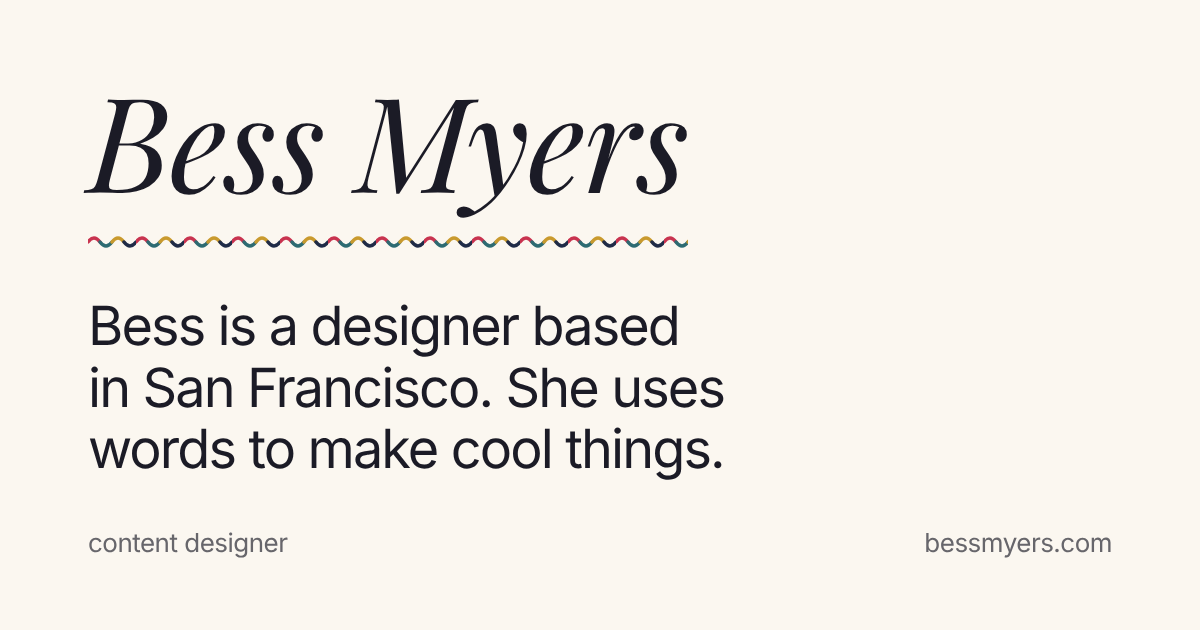
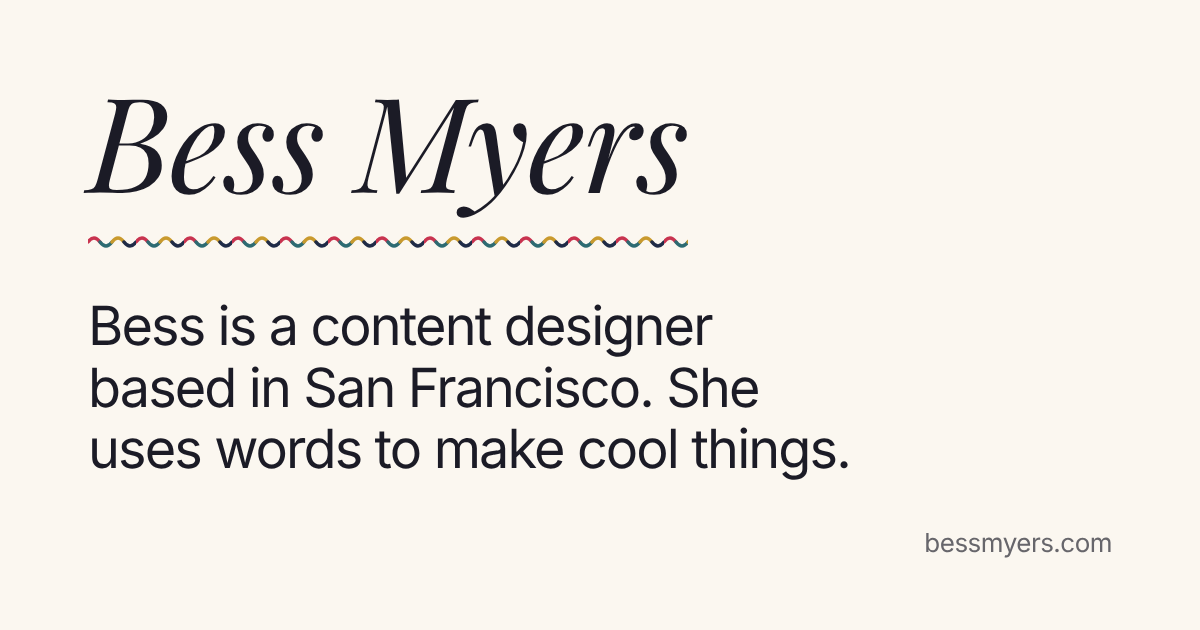
Hero: "Bess is a content designer based in San Francisco."
Updates the hero H1 (Chaos builds from it), the meta description, and
the og/twitter descriptions and image alt on every page. Re-renders the
social card with the new line and drops its now-redundant
"content designer" footer label.

Claude-Session: https://claude.ai/code/session_01EhM5K4LqiDdfiGdUqA5Go9

Changed region(s): [[0.0617, 0.4825, 0.7092, 0.7841], [0.0617, 0.8444, 0.2467, 0.8746]]

diff --git a/index.html b/index.html
@@ -8,18 +8,18 @@
   <meta property="og:type" content="website" />
   <meta property="og:site_name" content="Bess Myers" />
   <meta property="og:title" content="Bess Myers — content designer" />
-  <meta property="og:description" content="Bess Myers is a designer based in San Francisco. She uses words to make cool things." />
+  <meta property="og:description" content="Bess Myers is a content designer based in San Francisco. She uses words to make cool things." />
   <meta property="og:url" content="https://bessmyers.com/" />
   <meta property="og:image" content="https://bessmyers.com/images/og-image.png" />
   <meta property="og:image:width" content="1200" />
   <meta property="og:image:height" content="630" />
-  <meta property="og:image:alt" content="Bess Myers. Bess is a designer based in San Francisco. She uses words to make cool things." />
+  <meta property="og:image:alt" content="Bess Myers. Bess is a content designer based in San Francisco. She uses words to make cool things." />
   <meta name="twitter:card" content="summary_large_image" />
   <meta name="twitter:title" content="Bess Myers — content designer" />
-  <meta name="twitter:description" content="Bess Myers is a designer based in San Francisco. She uses words to make cool things." />
+  <meta name="twitter:description" content="Bess Myers is a content designer based in San Francisco. She uses words to make cool things." />
   <meta name="twitter:image" content="https://bessmyers.com/images/og-image.png" />
-  <meta name="twitter:image:alt" content="Bess Myers. Bess is a designer based in San Francisco. She uses words to make cool things." />
-  <meta name="description" content="Bess Myers is a designer based in San Francisco. She uses words to make cool things." />
+  <meta name="twitter:image:alt" content="Bess Myers. Bess is a content designer based in San Francisco. She uses words to make cool things." />
+  <meta name="description" content="Bess Myers is a content designer based in San Francisco. She uses words to make cool things." />
 
   <link rel="icon" href="favicon.svg" type="image/svg+xml" />
   <link rel="preconnect" href="https://fonts.googleapis.com" />
@@ -54,7 +54,7 @@
   <section id="top" class="landing-section site-band">
     <div class="site-frame landing-inner">
       <div class="hero-text-slot">
-        <h1 class="hero-headline hero-headline--landing type-title type-title--hero">Bess is a designer based in San Francisco. She uses words to make cool things.</h1>
+        <h1 class="hero-headline hero-headline--landing type-title type-title--hero">Bess is a content designer based in San Francisco. She uses words to make cool things.</h1>
       </div>
       <div class="hero-controls" data-chaos-anchor>
         <button

diff --git a/connect.html b/connect.html
@@ -6,22 +6,22 @@
   <link rel="canonical" href="index.html#connect" />
   <link rel="icon" href="favicon.svg" type="image/svg+xml" />
   <title>Redirecting…</title>
-  <meta name="description" content="Bess Myers is a designer based in San Francisco. She uses words to make cool things." />
+  <meta name="description" content="Bess Myers is a content designer based in San Francisco. She uses words to make cool things." />
   <!-- Social sharing -->
   <meta property="og:type" content="website" />
   <meta property="og:site_name" content="Bess Myers" />
   <meta property="og:title" content="Bess Myers — content designer" />
-  <meta property="og:description" content="Bess Myers is a designer based in San Francisco. She uses words to make cool things." />
+  <meta property="og:description" content="Bess Myers is a content designer based in San Francisco. She uses words to make cool things." />
   <meta property="og:url" content="https://bessmyers.com/#connect" />
   <meta property="og:image" content="https://bessmyers.com/images/og-image.png" />
   <meta property="og:image:width" content="1200" />
   <meta property="og:image:height" content="630" />
-  <meta property="og:image:alt" content="Bess Myers. Bess is a designer based in San Francisco. She uses words to make cool things." />
+  <meta property="og:image:alt" content="Bess Myers. Bess is a content designer based in San Francisco. She uses words to make cool things." />
   <meta name="twitter:card" content="summary_large_image" />
   <meta name="twitter:title" content="Bess Myers — content designer" />
-  <meta name="twitter:description" content="Bess Myers is a designer based in San Francisco. She uses words to make cool things." />
+  <meta name="twitter:description" content="Bess Myers is a content designer based in San Francisco. She uses words to make cool things." />
   <meta name="twitter:image" content="https://bessmyers.com/images/og-image.png" />
-  <meta name="twitter:image:alt" content="Bess Myers. Bess is a designer based in San Francisco. She uses words to make cool things." />
+  <meta name="twitter:image:alt" content="Bess Myers. Bess is a content designer based in San Francisco. She uses words to make cool things." />
   <script>window.location.replace('index.html#connect');</script>
 </head>
 <body>

diff --git a/about.html b/about.html
@@ -6,22 +6,22 @@
   <link rel="canonical" href="index.html#about" />
   <link rel="icon" href="favicon.svg" type="image/svg+xml" />
   <title>Redirecting…</title>
-  <meta name="description" content="Bess Myers is a designer based in San Francisco. She uses words to make cool things." />
+  <meta name="description" content="Bess Myers is a content designer based in San Francisco. She uses words to make cool things." />
   <!-- Social sharing -->
   <meta property="og:type" content="website" />
   <meta property="og:site_name" content="Bess Myers" />
   <meta property="og:title" content="Bess Myers — content designer" />
-  <meta property="og:description" content="Bess Myers is a designer based in San Francisco. She uses words to make cool things." />
+  <meta property="og:description" content="Bess Myers is a content designer based in San Francisco. She uses words to make cool things." />
   <meta property="og:url" content="https://bessmyers.com/#about" />
   <meta property="og:image" content="https://bessmyers.com/images/og-image.png" />
   <meta property="og:image:width" content="1200" />
   <meta property="og:image:height" content="630" />
-  <meta property="og:image:alt" content="Bess Myers. Bess is a designer based in San Francisco. She uses words to make cool things." />
+  <meta property="og:image:alt" content="Bess Myers. Bess is a content designer based in San Francisco. She uses words to make cool things." />
   <meta name="twitter:card" content="summary_large_image" />
   <meta name="twitter:title" content="Bess Myers — content designer" />
-  <meta name="twitter:description" content="Bess Myers is a designer based in San Francisco. She uses words to make cool things." />
+  <meta name="twitter:description" content="Bess Myers is a content designer based in San Francisco. She uses words to make cool things." />
   <meta name="twitter:image" content="https://bessmyers.com/images/og-image.png" />
-  <meta name="twitter:image:alt" content="Bess Myers. Bess is a designer based in San Francisco. She uses words to make cool things." />
+  <meta name="twitter:image:alt" content="Bess Myers. Bess is a content designer based in San Francisco. She uses words to make cool things." />
   <script>window.location.replace('index.html#about');</script>
 </head>
 <body>

diff --git a/work.html b/work.html
@@ -6,22 +6,22 @@
   <link rel="canonical" href="index.html#work" />
   <link rel="icon" href="favicon.svg" type="image/svg+xml" />
   <title>Redirecting…</title>
-  <meta name="description" content="Bess Myers is a designer based in San Francisco. She uses words to make cool things." />
+  <meta name="description" content="Bess Myers is a content designer based in San Francisco. She uses words to make cool things." />
   <!-- Social sharing -->
   <meta property="og:type" content="website" />
   <meta property="og:site_name" content="Bess Myers" />
   <meta property="og:title" content="Bess Myers — content designer" />
-  <meta property="og:description" content="Bess Myers is a designer based in San Francisco. She uses words to make cool things." />
+  <meta property="og:description" content="Bess Myers is a content designer based in San Francisco. She uses words to make cool things." />
   <meta property="og:url" content="https://bessmyers.com/#work" />
   <meta property="og:image" content="https://bessmyers.com/images/og-image.png" />
   <meta property="og:image:width" content="1200" />
   <meta property="og:image:height" content="630" />
-  <meta property="og:image:alt" content="Bess Myers. Bess is a designer based in San Francisco. She uses words to make cool things." />
+  <meta property="og:image:alt" content="Bess Myers. Bess is a content designer based in San Francisco. She uses words to make cool things." />
   <meta name="twitter:card" content="summary_large_image" />
   <meta name="twitter:title" content="Bess Myers — content designer" />
-  <meta name="twitter:description" content="Bess Myers is a designer based in San Francisco. She uses words to make cool things." />
+  <meta name="twitter:description" content="Bess Myers is a content designer based in San Francisco. She uses words to make cool things." />
   <meta name="twitter:image" content="https://bessmyers.com/images/og-image.png" />
-  <meta name="twitter:image:alt" content="Bess Myers. Bess is a designer based in San Francisco. She uses words to make cool things." />
+  <meta name="twitter:image:alt" content="Bess Myers. Bess is a content designer based in San Francisco. She uses words to make cool things." />
   <script>window.location.replace('index.html#work');</script>
 </head>
 <body>

diff --git a/work/locked-profiles.html b/work/locked-profiles.html
@@ -14,12 +14,12 @@
   <meta property="og:image" content="https://bessmyers.com/images/og-image.png" />
   <meta property="og:image:width" content="1200" />
   <meta property="og:image:height" content="630" />
-  <meta property="og:image:alt" content="Bess Myers. Bess is a designer based in San Francisco. She uses words to make cool things." />
+  <meta property="og:image:alt" content="Bess Myers. Bess is a content designer based in San Francisco. She uses words to make cool things." />
   <meta name="twitter:card" content="summary_large_image" />
   <meta name="twitter:title" content="Changing privacy settings for 100M people — Bess Myers" />
   <meta name="twitter:description" content="How do you take an option away from 100M people without making them feel punished? A content design case study by Bess Myers." />
   <meta name="twitter:image" content="https://bessmyers.com/images/og-image.png" />
-  <meta name="twitter:image:alt" content="Bess Myers. Bess is a designer based in San Francisco. She uses words to make cool things." />
+  <meta name="twitter:image:alt" content="Bess Myers. Bess is a content designer based in San Francisco. She uses words to make cool things." />
   <link rel="icon" href="../favicon.svg" type="image/svg+xml" />
   <link rel="preconnect" href="https://fonts.googleapis.com" />
   <link rel="preconnect" href="https://fonts.gstatic.com" crossorigin />

diff --git a/work/ai-auditing.html b/work/ai-auditing.html
@@ -14,12 +14,12 @@
   <meta property="og:image" content="https://bessmyers.com/images/og-image.png" />
   <meta property="og:image:width" content="1200" />
   <meta property="og:image:height" content="630" />
-  <meta property="og:image:alt" content="Bess Myers. Bess is a designer based in San Francisco. She uses words to make cool things." />
+  <meta property="og:image:alt" content="Bess Myers. Bess is a content designer based in San Francisco. She uses words to make cool things." />
   <meta name="twitter:card" content="summary_large_image" />
   <meta name="twitter:title" content="Teaching AI what good content design looks like — Bess Myers" />
   <meta name="twitter:description" content="How do you scale one content designer across an entire product surface? A content design case study by Bess Myers." />
   <meta name="twitter:image" content="https://bessmyers.com/images/og-image.png" />
-  <meta name="twitter:image:alt" content="Bess Myers. Bess is a designer based in San Francisco. She uses words to make cool things." />
+  <meta name="twitter:image:alt" content="Bess Myers. Bess is a content designer based in San Francisco. She uses words to make cool things." />
   <link rel="icon" href="../favicon.svg" type="image/svg+xml" />
   <link rel="preconnect" href="https://fonts.googleapis.com" />
   <link rel="preconnect" href="https://fonts.gstatic.com" crossorigin />

diff --git a/tools/og-image.html b/tools/og-image.html
@@ -12,6 +12,6 @@
 </style></head><body>
 <div class="card">
   <p class="name">Bess Myers</p>
-  <p class="line">Bess is a designer based in San Francisco. She uses words to make cool things.</p>
-  <div class="foot"><span>content designer</span><span>bessmyers.com</span></div>
+  <p class="line">Bess is a content designer based in San Francisco. She uses words to make cool things.</p>
+  <div class="foot"><span></span><span>bessmyers.com</span></div>
 </div></body></html>
